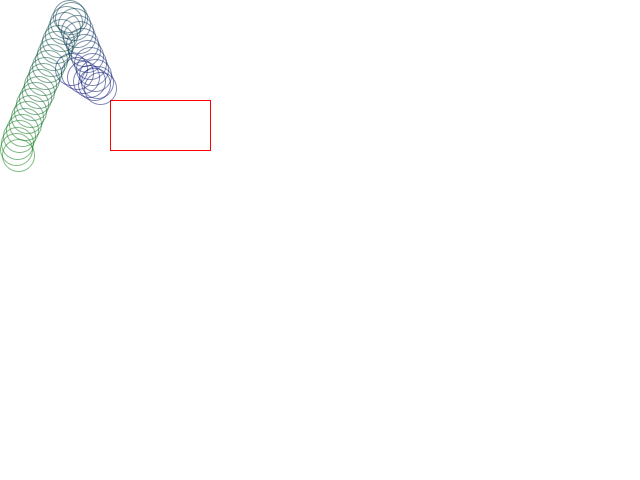
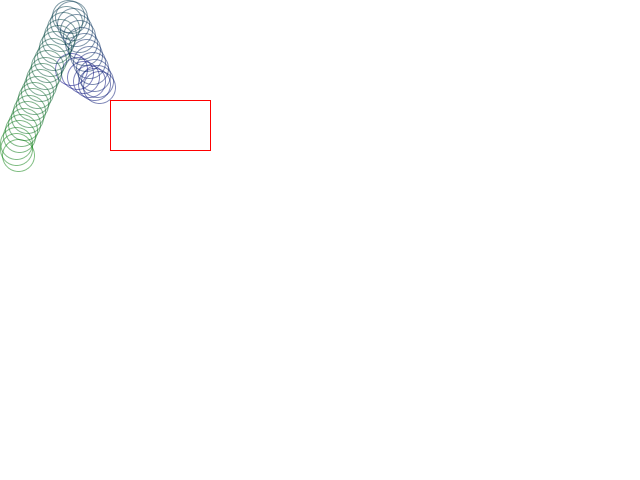
Adjust position also at corner collision.

Changed region(s): [[0.0, 0.0, 0.1875, 0.3125]]

diff --git a/Ball/src/com/sss/ball/CollisionUtil.java b/Ball/src/com/sss/ball/CollisionUtil.java
@@ -196,19 +196,24 @@ public class CollisionUtil {
     }
 
     private static void doCornerCollision(float dx, float dy) {
-        double alpha = 0;
-        float cosa = 0, sina = 0, nvx, nvy;
-        alpha = Math.atan2(dx, dy);
-        cosa = (float) Math.cos(alpha);
-        sina = (float) Math.sin(alpha);
+        double alpha = Math.atan2(dx, dy);
+        float cosa = (float) Math.cos(alpha);
+        float sina = (float) Math.sin(alpha);
         // rotate with alpha
-        nvx = mTmpVX * cosa - mTmpVY * sina;
-        nvy = mTmpVY * cosa + mTmpVX * sina;
+        float nvx = mTmpVX * cosa - mTmpVY * sina;
+        float nvy = mTmpVY * cosa + mTmpVX * sina;
         // reflect
         nvy = -nvy;
         // rotate back
         mTmpVX = nvx * cosa + nvy * sina;
         mTmpVY = nvy * cosa - nvx * sina;
+        // Also need to adjust the ball distance
+        float dd = (float) Math.sqrt(dx*dx + dy*dy);
+        float extra = mTmpR - dd;
+        if (extra > 0) {
+            mTmpX -= dx * extra / mTmpR;
+            mTmpY -= dy * extra / mTmpR;
+        }
     }
 
     public static float getNewX() {
